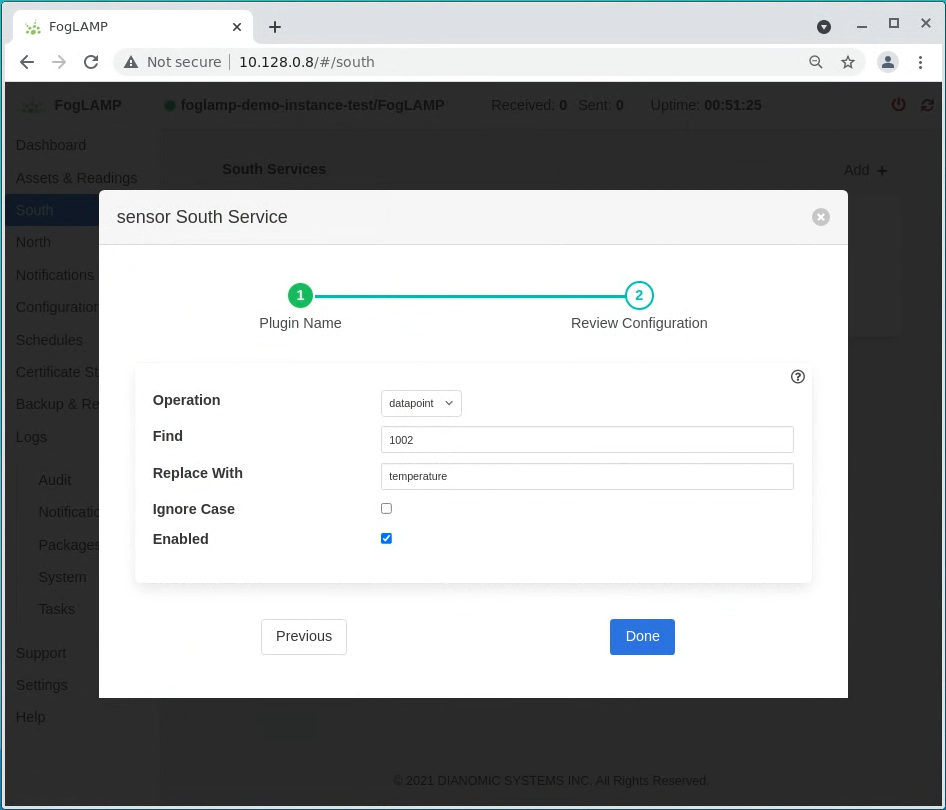
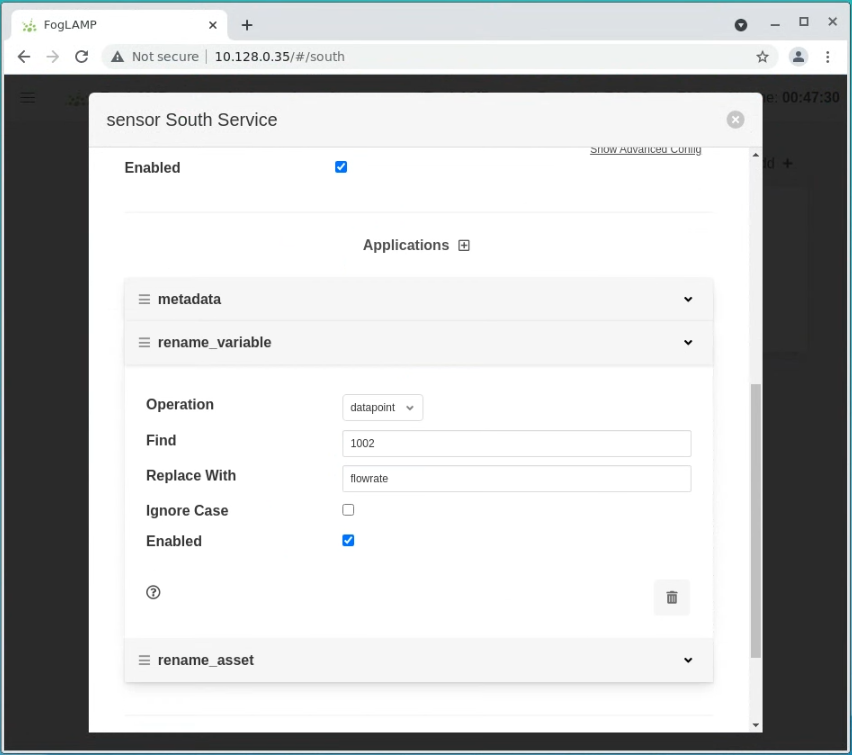
Updated Readme

diff --git a/README.md b/README.md
@@ -80,15 +80,17 @@ DISPLAY= /opt/google/chrome-remote-desktop/start-host \
 15. Here you can enter useful metadata associated with your sensor, such as location, configuration version, etc. For the demo we will define the device version:
 ![Metadata](images/metadata.png?raw=true "Metadata")  
 16. Click on "Done" to enable the Metadata plugin.
-17. Back on the configuration menu of your asset, click on "Applications+" and from the Plugin list select "rename".
-18. Select "datapoint" as the "Operation" and set the "Find" field value to the Node Id of your OPC UA variable. Replace it with the actual property being measured, e.g. "temperature":
+17. Back on the configuration menu of your asset, click on "Applications+" and from the plugin list select "rename".
+18. Select "datapoint" as the "Operation" and set the "Find" field value to the Node Id of your OPC UA variable. Replace it with the actual property being measured, e.g. "flowrate":
 ![Rename](images/rename.png?raw=true "Rename") 
-19. Using the menu bar on the left side of the UI, click on "North" and then click on "Add+" in the upper right of the North Services screen. Select "GCP" from the list and provide a unique name for the asset. Click on "Next".
-20. Enter your Project ID and region, and the following default values for the Registry ID, Device ID, and Key Name. Terraform has already configured the private key required to connect FogLAMP and GCP IoT Core, so all that's required is to enter the default key name:  
+19. Add an additional "rename" plugin. Select "asset" as the "Operation" and set the "Find" field value to the default asset name that FogLAMP has assigned. Replace it with the actual device-Id, e.g. "Coriolis_01":
+![Rename Device](images/rename_device.png?raw=true "Rename Device") 
+20. Using the menu bar on the left side of the UI, click on "North" and then click on "Add+" in the upper right of the North Services screen. Select "GCP" from the list and provide a unique name for the asset. Click on "Next".
+21. Enter your Project ID and region, and the following default values for the Registry ID, Device ID, and Key Name. Terraform has already configured the private key required to connect FogLAMP and GCP IoT Core, so all that's required is to enter the default key name:  
 ![FogLAMP North](images/foglamp_north.png?raw=true "FogLAMP North")  
-21. Click on "Next" to enable the GCP plugin.
-22. Finally, back to the "South Service" menu, click on your asset and select "Enabled" to activate it.
-23. After a few moments, you should be able to see the number of messages that have been read/sent through FogLAMP:
+22. Click on "Next" to enable the GCP plugin.
+23. Finally, back to the "South Service" menu, click on your asset and select "Enabled" to activate it.
+24. After a few moments, you should be able to see the number of messages that have been read/sent through FogLAMP:
 ![FogLAMP Final](images/foglamp_final.png?raw=true "FogLAMP Final")  
 ### Exploring the Data
 Once FogLAMP is transmitting the OPC UA data to the IoT Core, the downstream Pub/Sub topics and Dataflow Jobs will stream them to BigQuery.  
@@ -102,10 +104,14 @@ One of the features of this demo is the capturing of abnormal device behaviour i
 1. In the desktop environment of your VM, go to the OPC UA server and stop the simulation by clicking on the "Stop" button in the "Objects" tab:
 ![OPC UA Stop](images/opcua_stop.png?raw=true "OPC UA Stop")
 2. Back to BigQuery, you will now have a table ```measurements_raw_events``` where the outage of the sensor is captured in real-time for as long as the outage lasts:
-![Events](images/opcua_stop.png?raw=true "Events")  
+![Events](images/raw_events.png?raw=true "Events")  
 What about custom events? The ```event_definitions``` table allows a user to define custom events for all or specific devices and measured properties:
 ![Event Definitions](images/event_definitions.png?raw=true "Event Definitions")
-
+3. Let's go back to the OPC UA GUI and start the simulation again, but this time change the flowrate to a value less that 10 to activate the "Low Flowrate" Event. 
+4. As soon as we change the value, we can see the event rows being inserted to the events table in BigQuery as a separate event:
+![Events](images/raw_events_2.png?raw=true "Events") 
+5. Finally, the ```events_summary_view``` summarizes the key metrics for each event:
+![Events View](images/events_view.png?raw=true "Events View") 
 ## Apache Beam Pipelines
 ### [Processing of Raw IoT Sensor Data](https://github.com/badal-io/dataflow-timeseries-iot-gas-demo/tree/main/dataflow-raw)
 The first pipeline is intended to be the point-of-entry for the raw IoT data. The pipeline consists of the following components:
